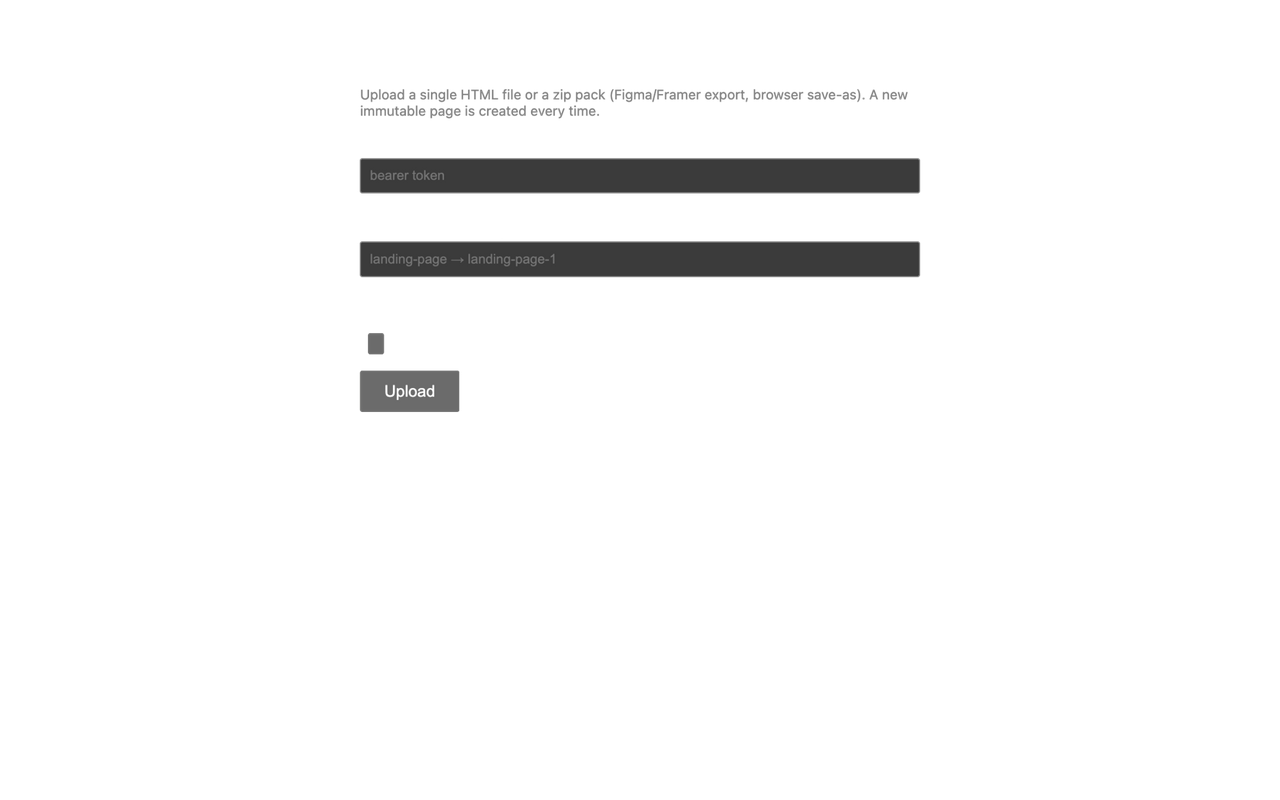
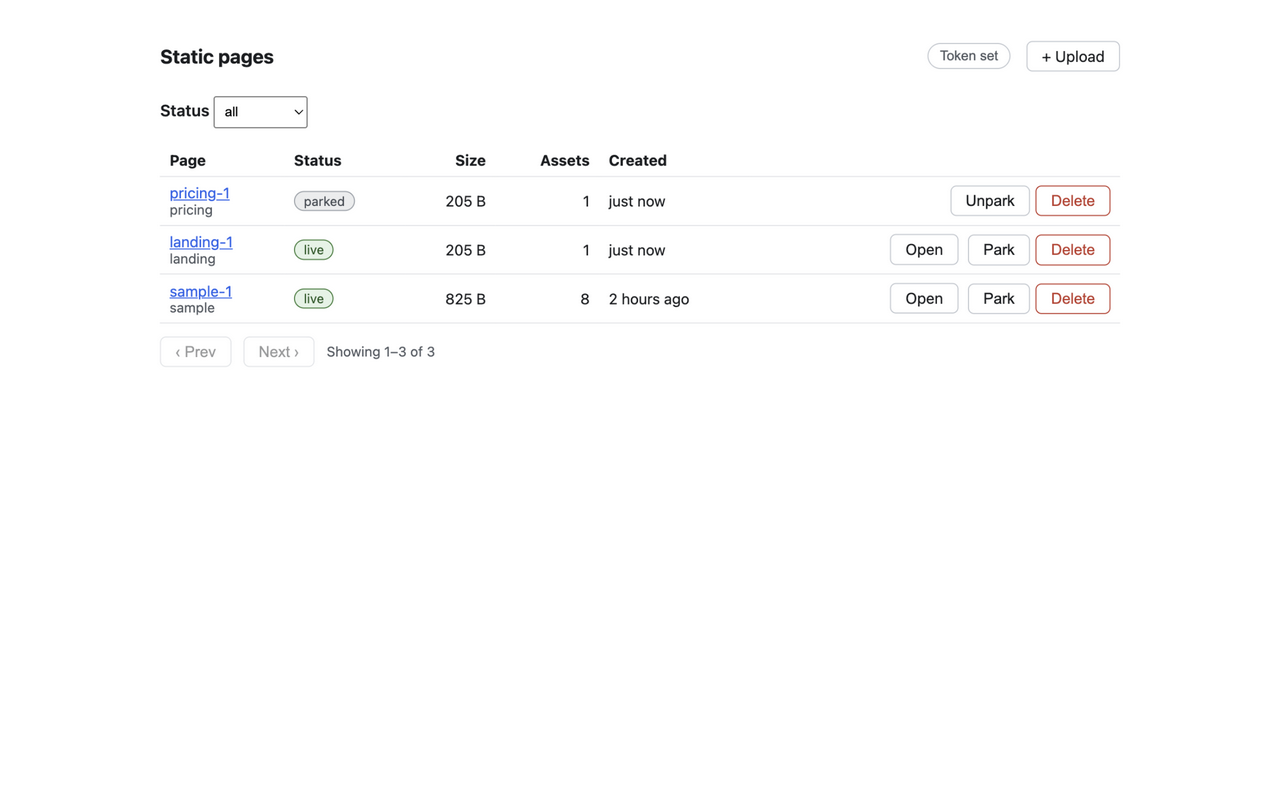
docs: refresh README screenshots — page list + upload view

diff --git a/README.md b/README.md
@@ -26,10 +26,14 @@ open http://localhost:8080/p/sample-1/
 
 Open `http://localhost:8080/`, enter token `devtoken`, and you get the
 management UI: every page with its lifecycle status, the full asset manifest
-per page, park/unpark, and permanent delete. Upload lives there too —
-optionally set an identifier and drop an `.html` file or a `.zip`:
+per page, park/unpark, and permanent delete:
 
 ![Web admin — manage pages](screenshot.png)
+
+On the upload page you can set an identifier, import a page by URL, or
+drop an `.html` file or a `.zip`:
+
+![Web admin — upload](screenshot-upload.png)
 
 Or use the API:
 
